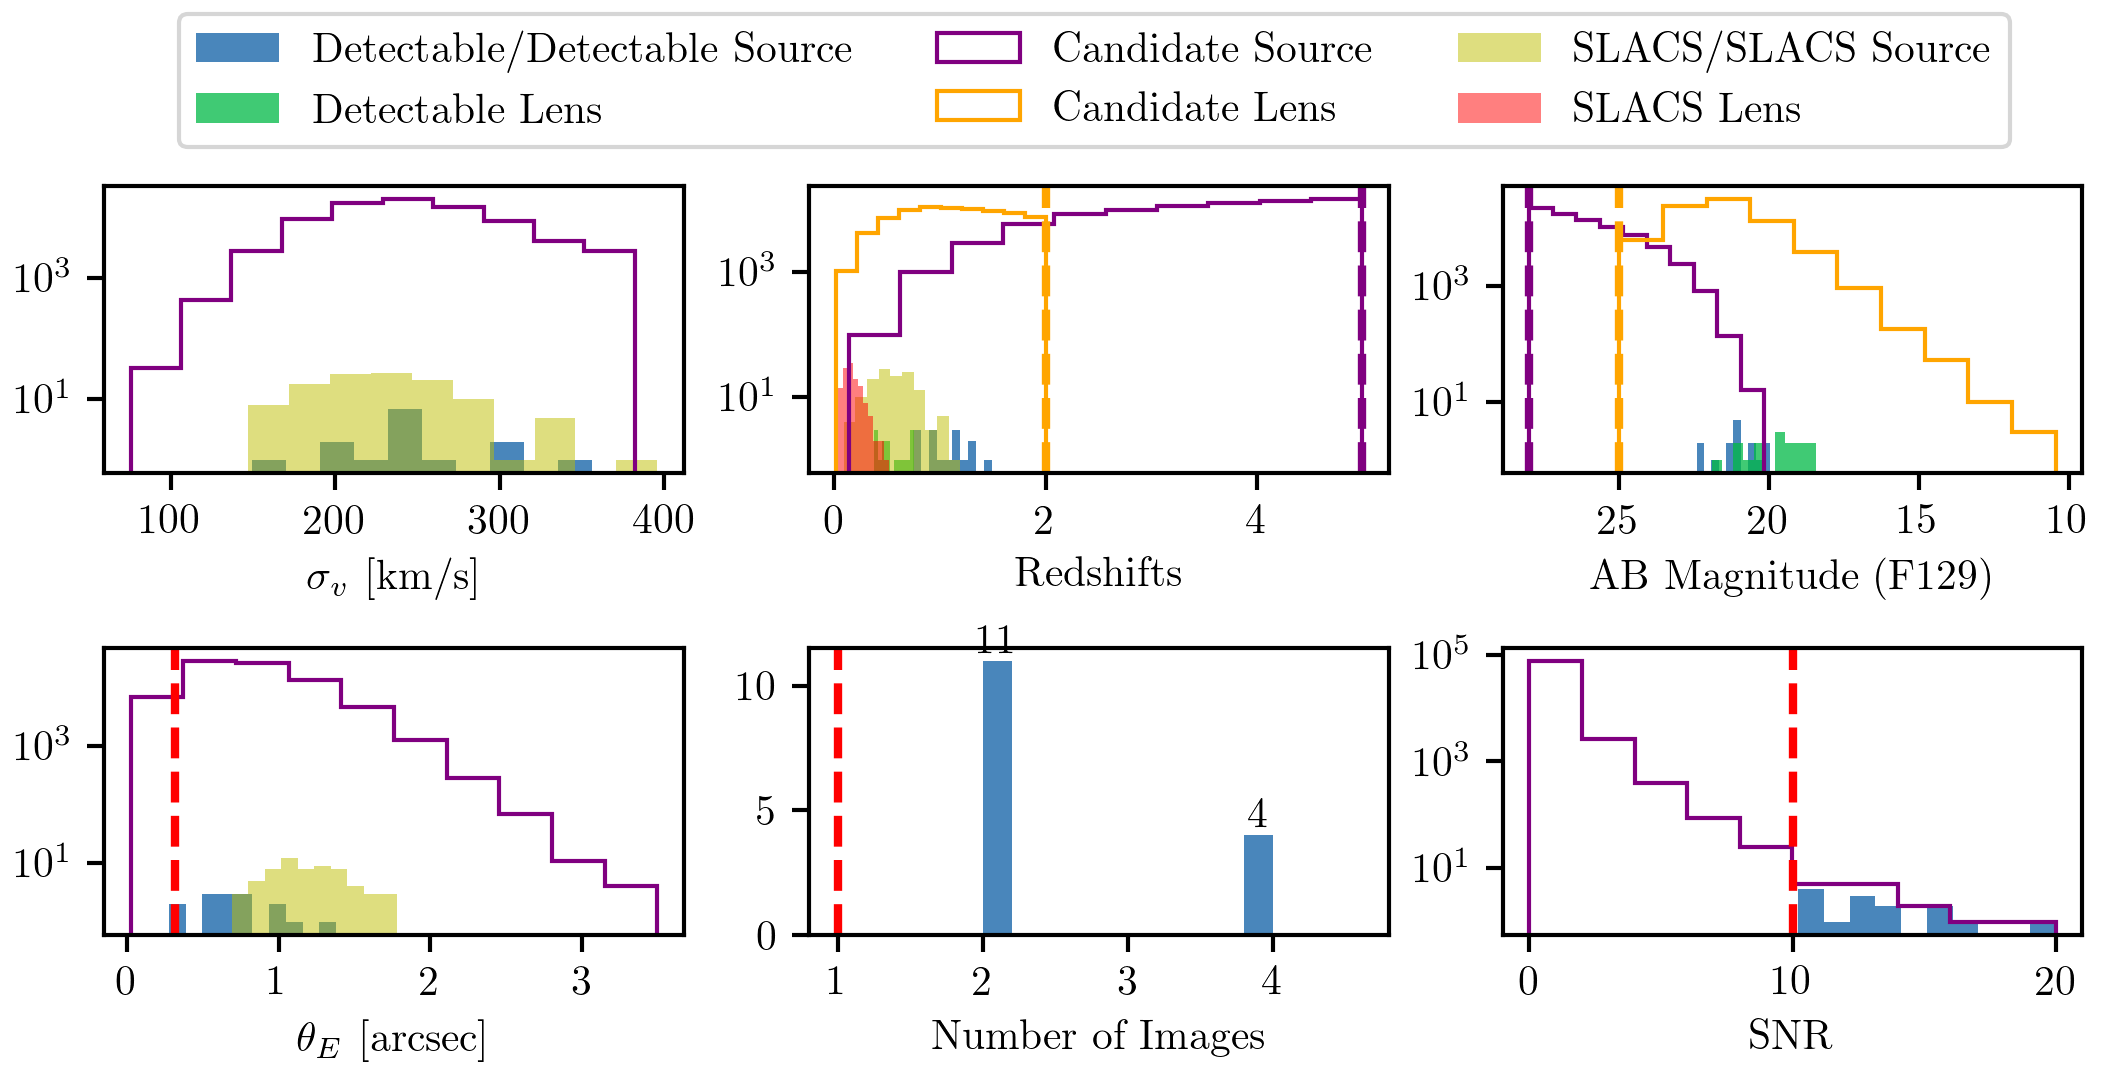
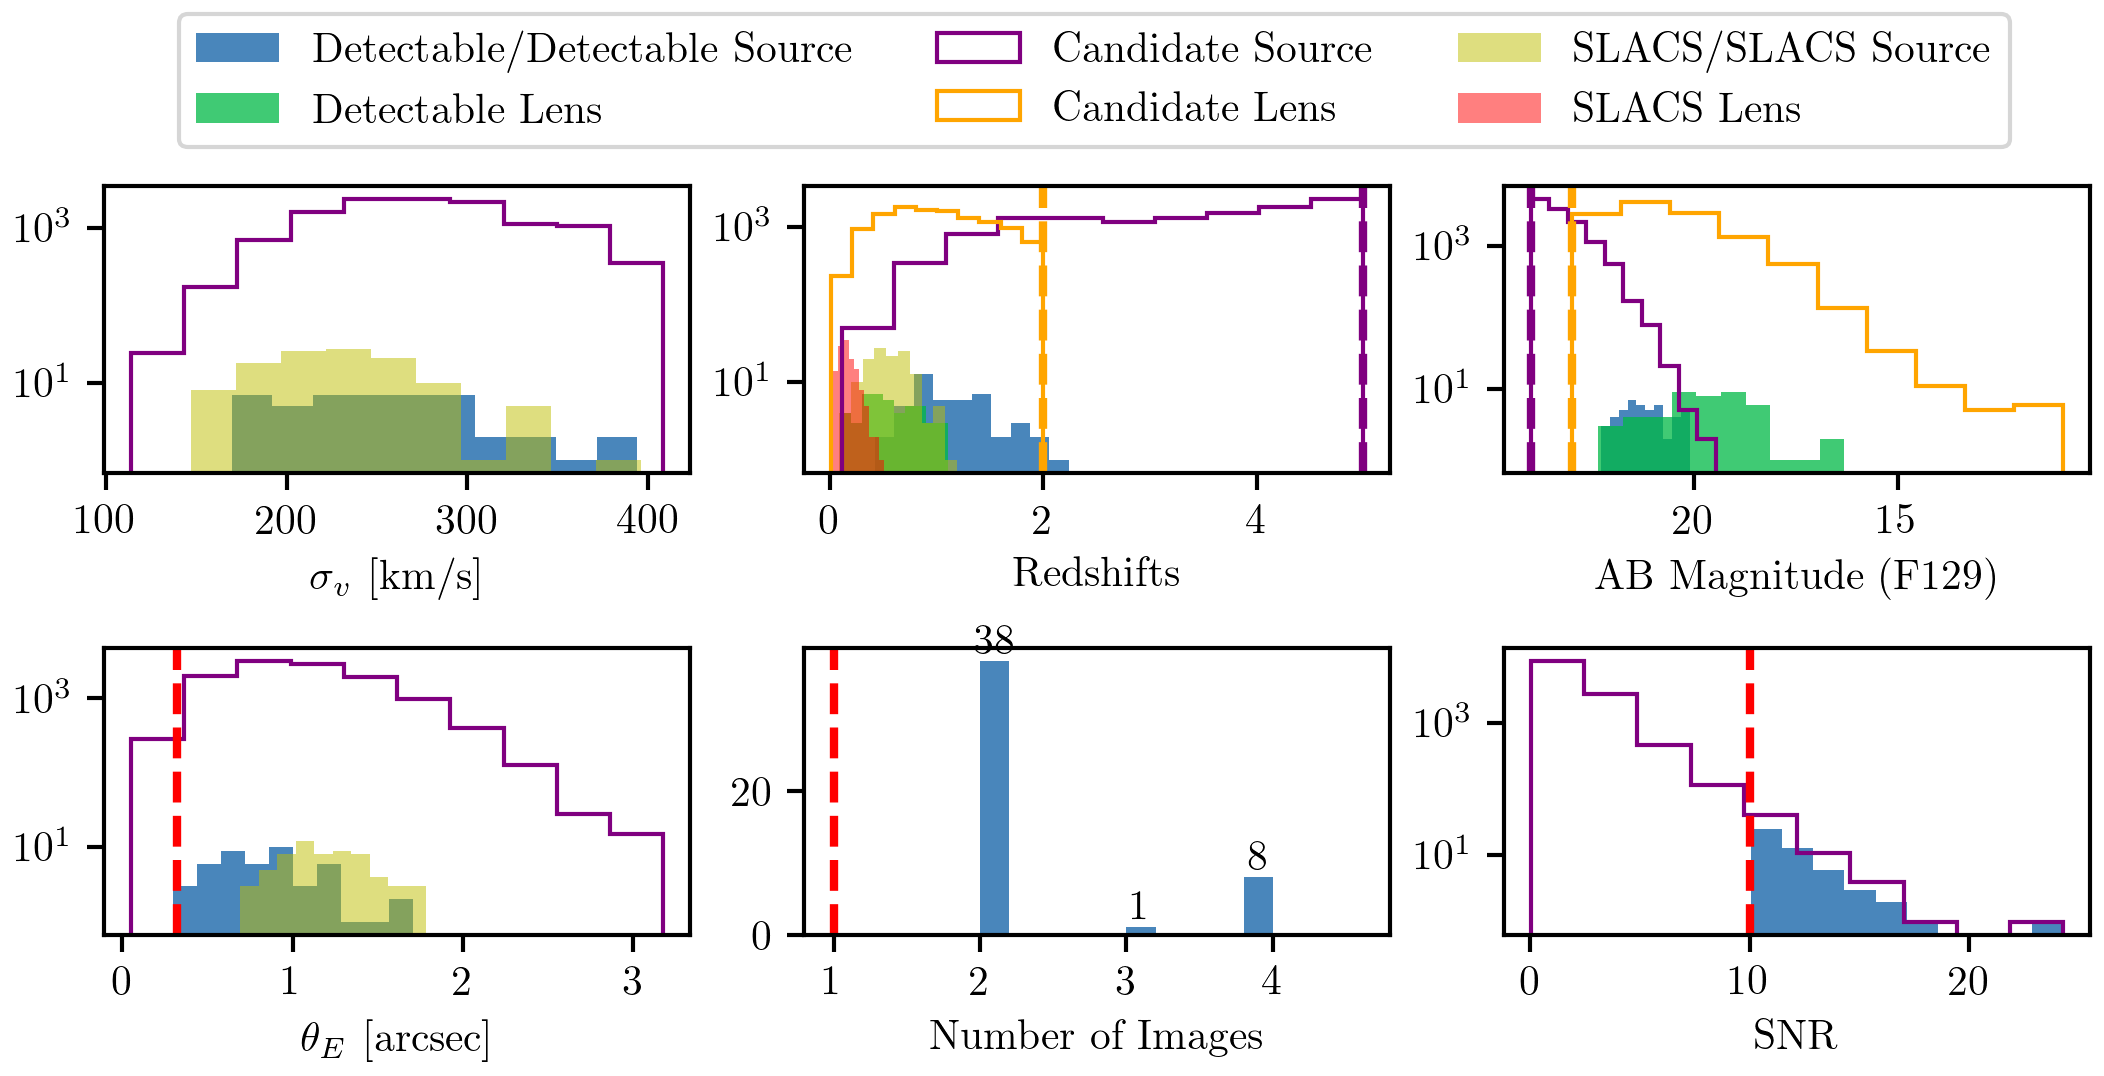
varying survey params and check yield

diff --git a/pipeline/tests/test_mag_cuts.py b/pipeline/tests/test_mag_cuts.py
@@ -41,19 +41,6 @@ def main(config):
         print('Configured Roman filters. Loaded:')
         pprint(roman_filters[:8])
 
-    # kwargs_deflector_cut = {
-    #     'band': survey_params['deflector_cut_band'],
-    #     'band_max': survey_params['deflector_cut_band_max'],
-    #     'z_min': survey_params['deflector_z_min'],
-    #     'z_max': survey_params['deflector_z_max']
-    # }
-    # kwargs_source_cut = {
-    #     'band': survey_params['source_cut_band'],
-    #     'band_max': survey_params['source_cut_band_max'],
-    #     'z_min': survey_params['source_z_min'],
-    #     'z_max': survey_params['source_z_max']
-    # }
-
     # tuple the parameters
     survey_params = util.hydra_to_dict(config.survey)
     pipeline_params = util.hydra_to_dict(config.pipeline)
@@ -78,7 +65,7 @@ def main(config):
             count = runs
             if count < process_count:
                 process_count = count
-            print(f'Spinning up {process_count} process(es) on {cpu_count} core(s)')
+            if debugging: print(f'Spinning up {process_count} process(es) on {cpu_count} core(s)')
 
             # batch
             generator = util.batch_list(tuple_list, process_count)

diff --git a/pipeline/scripts/00_hlwas_sim.py b/pipeline/scripts/00_hlwas_sim.py
@@ -232,7 +232,7 @@ def run_slsim(tuple):
         lens_mags, source_mags = {}, {}
         for band in bands:
             lens_mags[band] = gglens.deflector_magnitude(band)
-            source_mags[band] = gglens.extended_source_magnitude(band, lensed=True)
+            source_mags[band] = gglens.extended_source_magnitude(band, lensed=False)
 
         z_lens, z_source = gglens.deflector_redshift, gglens.source_redshift
         kwargs_lens = kwargs_params['kwargs_lens']
